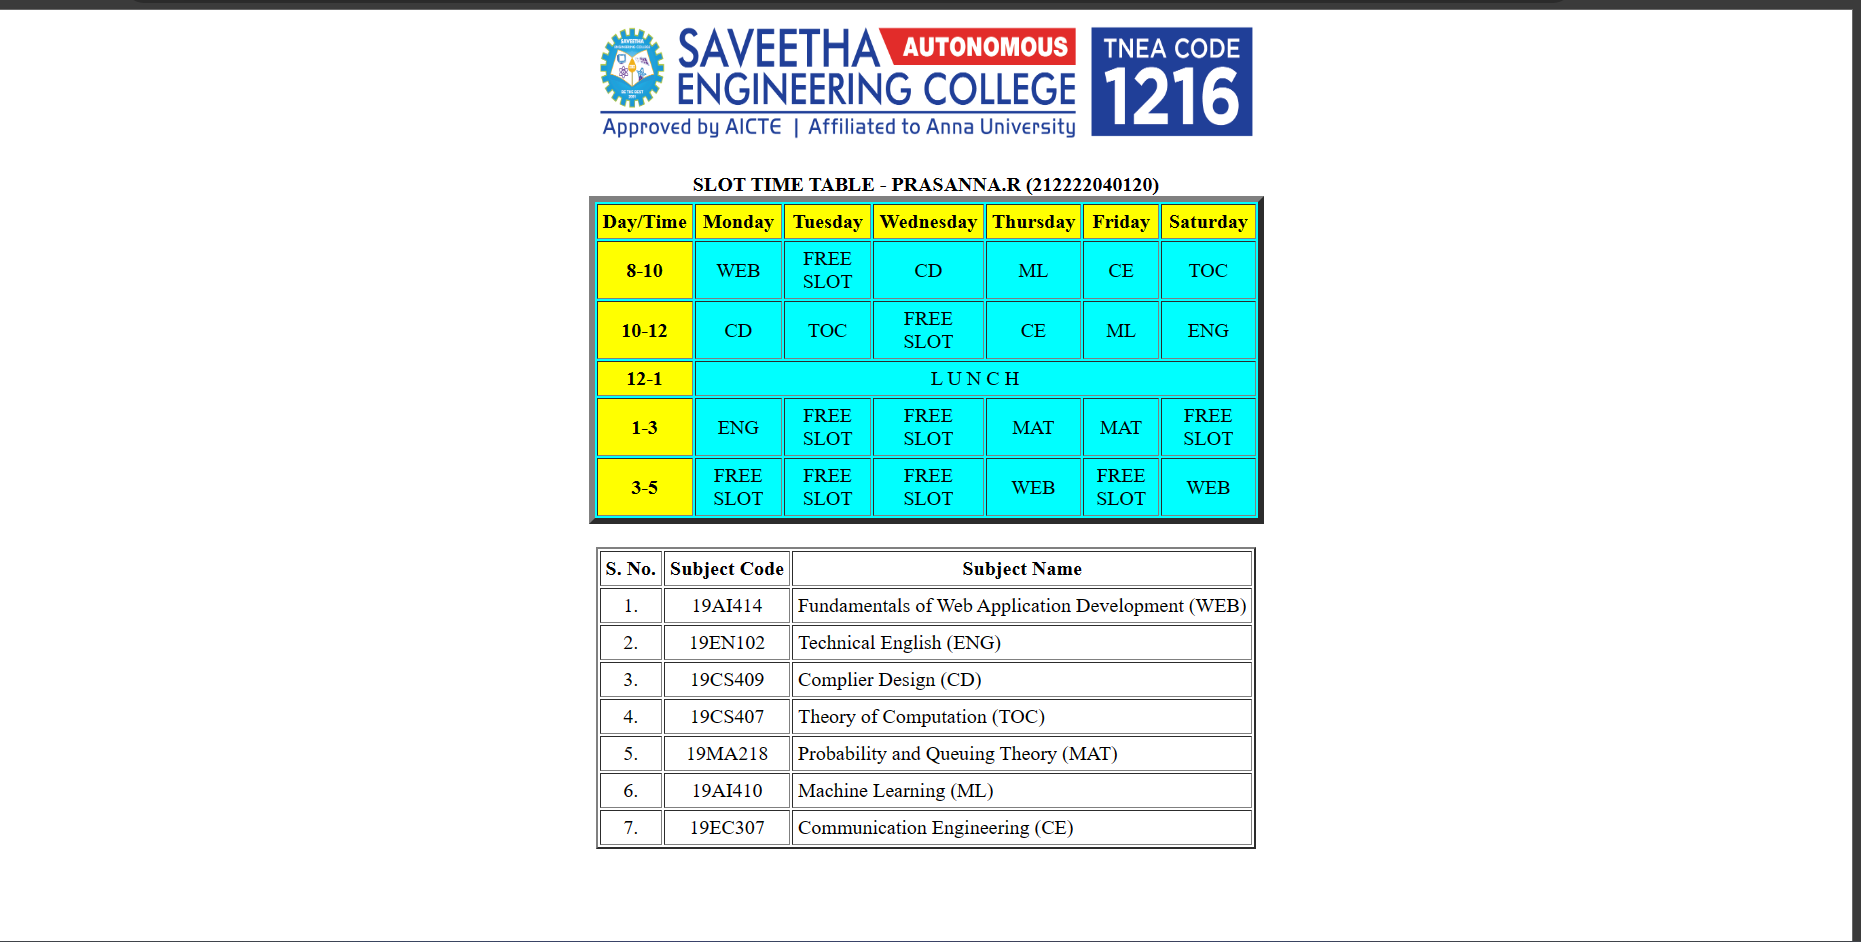
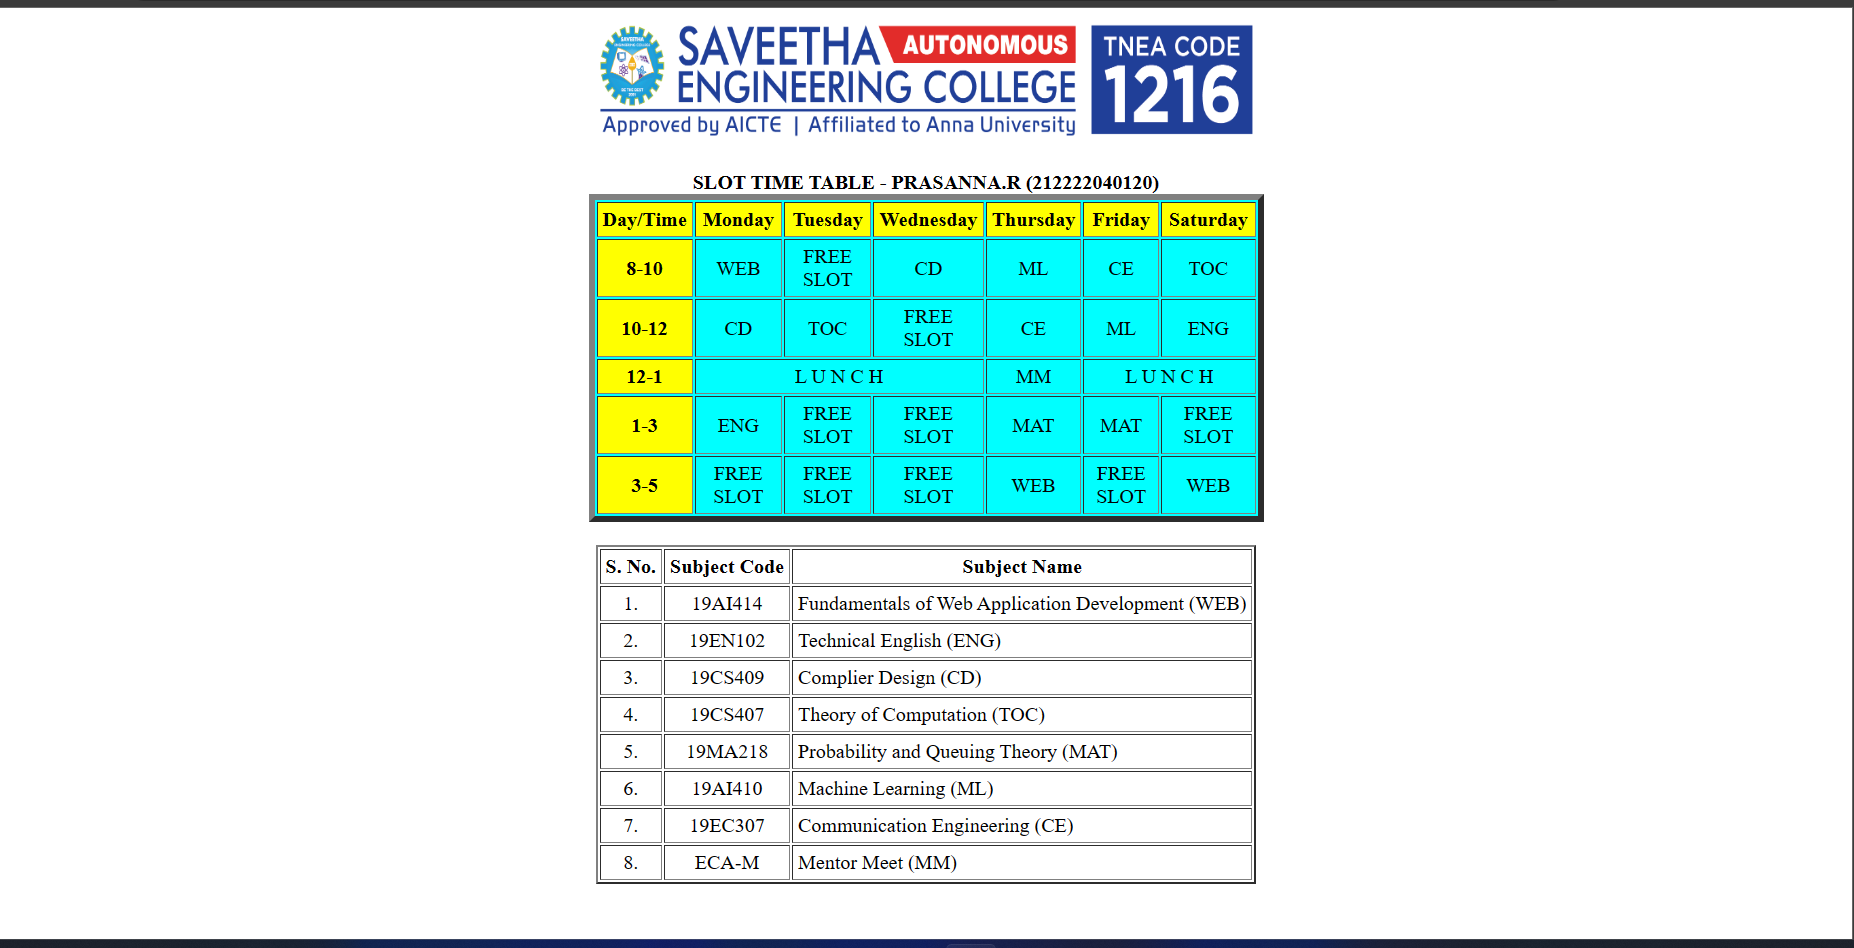
Success

Changed region(s): [[0.3074, 0.1847, 0.7071, 0.9544], [0.0, 0.0, 1.0, 1.0]]

diff --git a/prasanna/slotapp/static/time.html b/prasanna/slotapp/static/time.html
@@ -39,7 +39,9 @@
 </tr>
 <tr>
 <th bgcolor="yellow">12-1</th>
-<td colspan="6" align="center">L U N C H</td>
+<td colspan="3" align="center">L U N C H</td>
+<td colspan="1" align="center">MM</td>
+<td colspan="2" align="center">L U N C H</td>
 </tr>
 <tr align="center">
 <th bgcolor="yellow">1-3</th>
@@ -100,6 +102,11 @@
 <td align="center">7.</td>
 <td align="center">19EC307</td>
 <td>Communication Engineering (CE)</td>
+</tr>
+<tr>
+<td align="center">8.</td>
+<td align="center">ECA-M</td>
+<td>Mentor Meet (MM)</td>
 </tr>
 </tr>
 </table>
